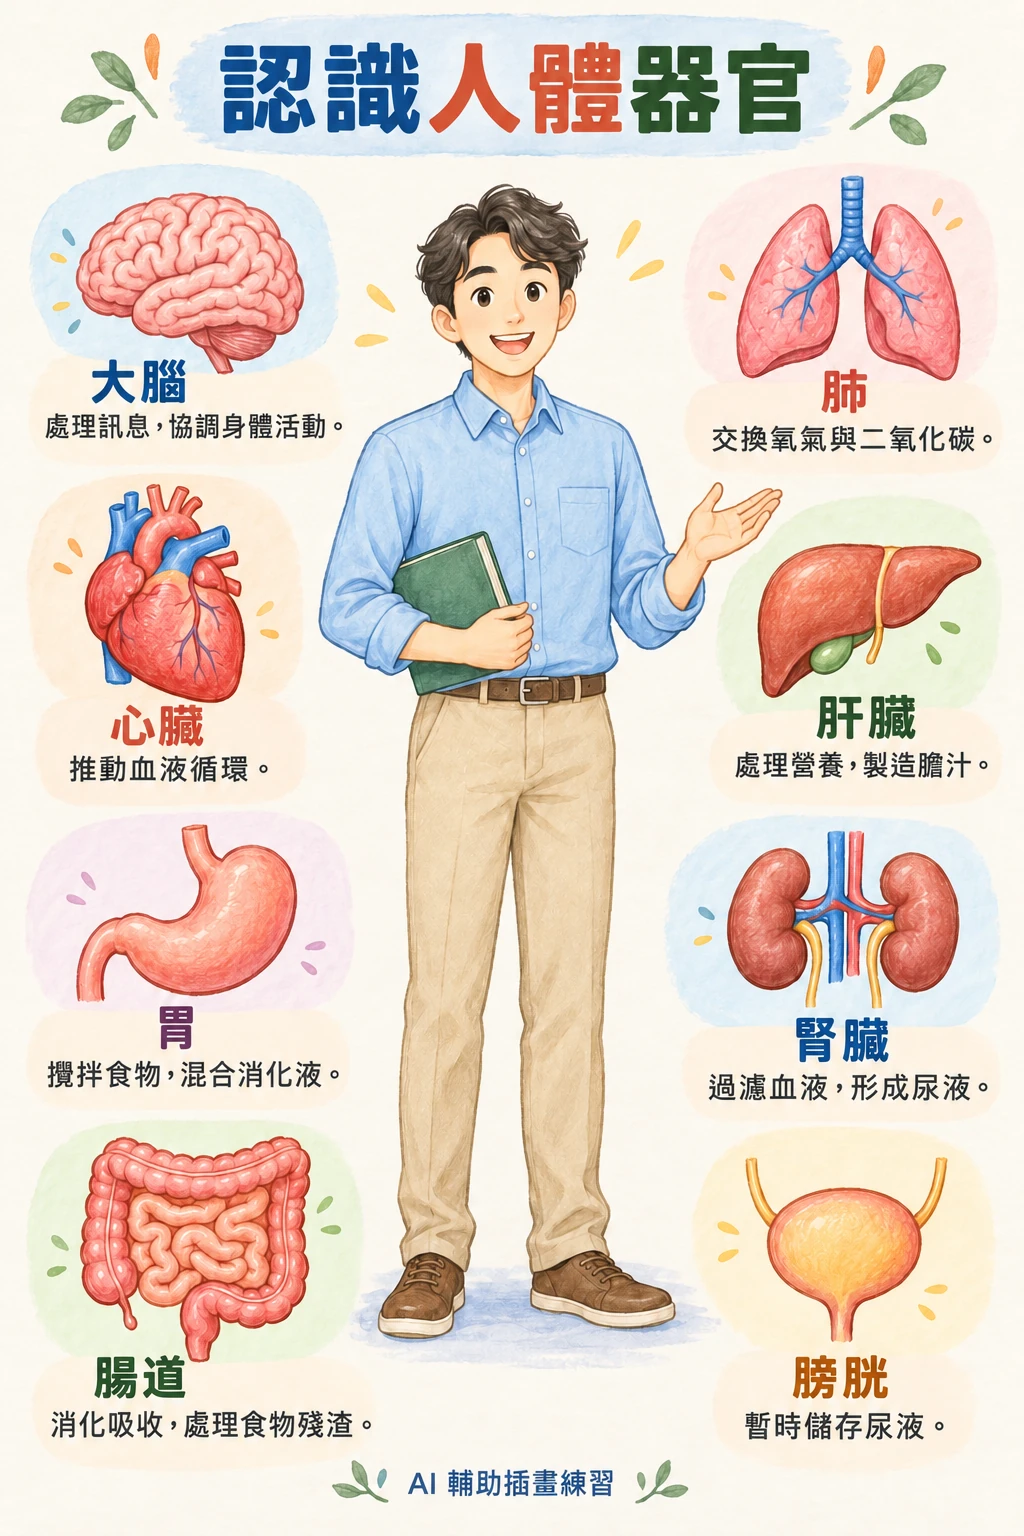
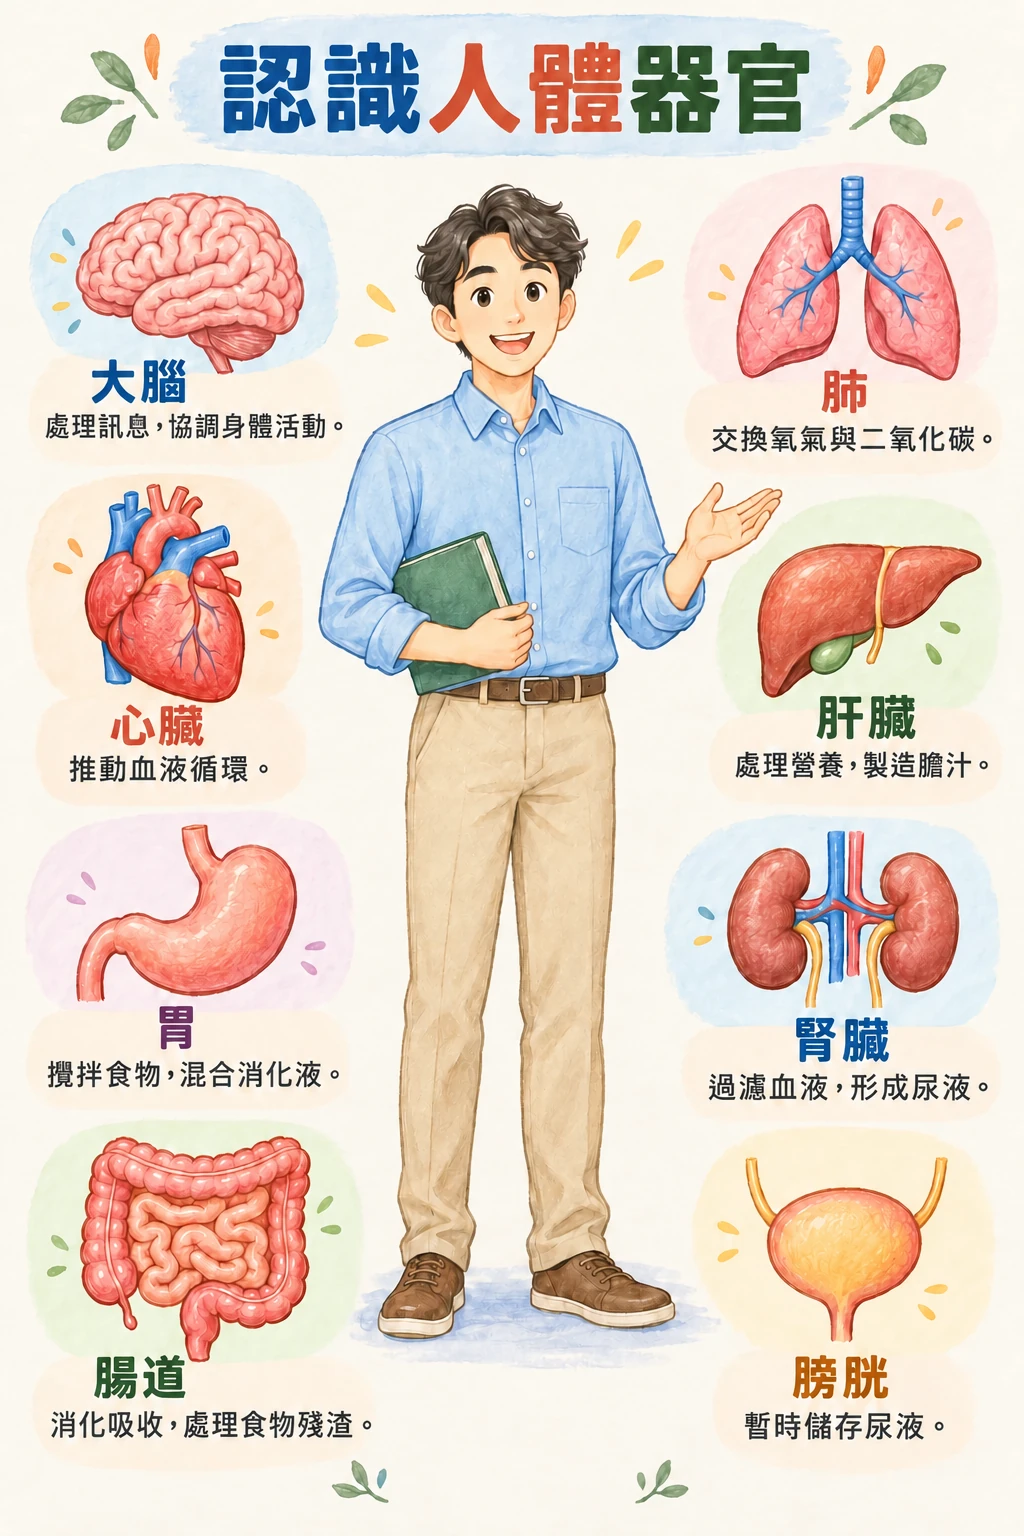
Remove practice captions from human organs and string instrument illustrations

diff --git a/realistic-illustrations.html b/realistic-illustrations.html
@@ -30,10 +30,10 @@
         <h1 id="project-title" class="sr-only">寫實風格教材插畫作品</h1>
         <div class="project-gallery__content">
           <img src="assets/images/realistic-illustrations/01-neighborhood-map.webp" alt="街區生活地圖：觀察建築、人物與自然環境" width="1222" height="1287" decoding="async" draggable="false" fetchpriority="high">
-          <img src="assets/images/realistic-illustrations/02-human-organs.webp" alt="認識人體器官教材插畫" width="1024" height="1536" decoding="async" draggable="false" loading="lazy">
+          <img src="assets/images/realistic-illustrations/02-human-organs.webp?v=20261011-clean" alt="認識人體器官教材插畫" width="1024" height="1536" decoding="async" draggable="false" loading="lazy">
           <img src="assets/images/realistic-illustrations/03-taiwan-protected-animals.webp" alt="台灣保育動物教材插畫" width="1024" height="1536" decoding="async" draggable="false" loading="lazy">
           <img src="assets/images/realistic-illustrations/04-taiwan-common-plants.webp" alt="台灣常見植物教材插畫" width="1024" height="1536" decoding="async" draggable="false" loading="lazy">
-          <img src="assets/images/realistic-illustrations/05-string-instruments.webp" alt="弦樂器小百科教材插畫" width="1024" height="1536" decoding="async" draggable="false" loading="lazy">
+          <img src="assets/images/realistic-illustrations/05-string-instruments.webp?v=20261011-clean" alt="弦樂器小百科教材插畫" width="1024" height="1536" decoding="async" draggable="false" loading="lazy">
         </div>
         <div class="page-seo-note"><p>AI 輔助生成、本人修繪與編排</p></div>
       </section>
